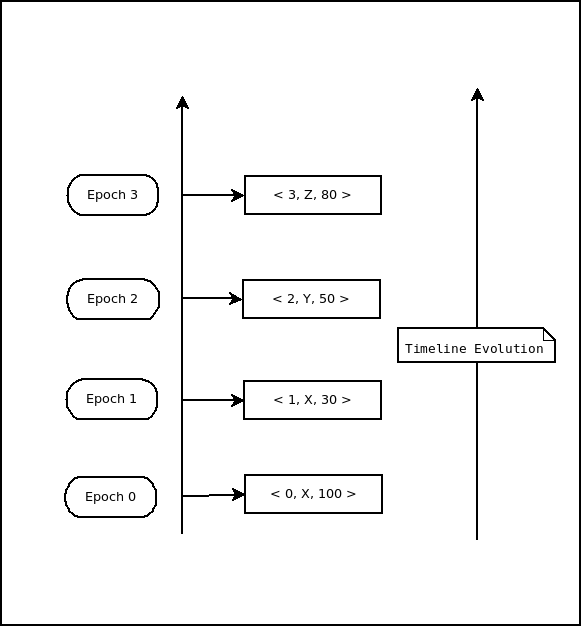
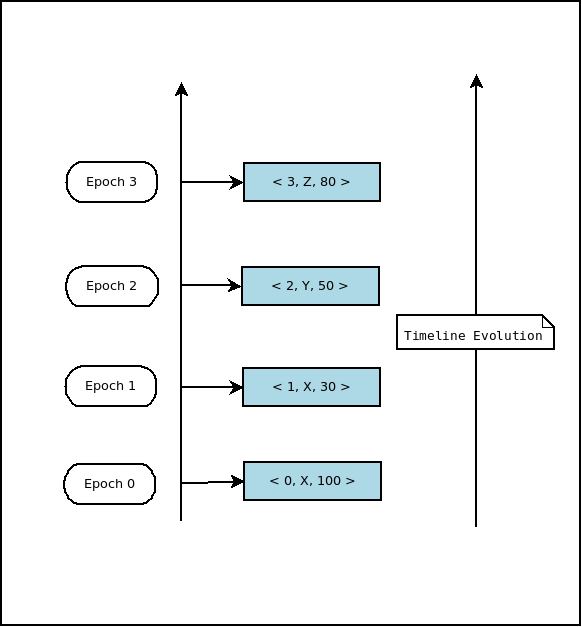
Updated the diagrams and initiated refactoring of the implementation section.

diff --git a/thesis-report/report.tex b/thesis-report/report.tex
@@ -412,21 +412,35 @@ Gradient \cite{sacha2006discovery}, which is a class of structured P2P overlays 
 
 
 \section{Architecture}
+\label{sec:architecture}
 
-The actual structure of a distributed search engine is usually complex. It involves modules for the request routing, leader election, overlay management, load balancing and searching the data. Figure \ref{fig:architecture} depicts a high level view of the system involving routing requests to specific shards based on the category. In this section, we will be discussing its key modules.
+The actual structure of a distributed search engine is usually complex. It involves modules for the request routing, leader election, overlay management, load balancing and searching the data. Figure \ref{fig:architecture} depicts the arrangement of these modules in different layers in the overall application. Application Layer is the main layer that directly interacts with the client. The application module directly interacts with the Routing module and the Data Store layer. The data store module is simply a wrapper over Apache Lucene used to store and index data.
+
+\par The next layer is the Overlay Layer and as the name suggests it is responsible for constructing and maintaining the overlay over which the system is built. In addition to the overlay module, it is also comprised of leader election module, which helps to identify and elect the leader of the system. All the layers in order to function need the help of the Basic Services Layer which include essential modules like Timer and Network for configuring timeouts during asynchronous operations and interacting with other components during different operations. It is not necessary that each module interacts with all the modules in the underlying layers but have an access to the modules in case the need arises. In the below sections, we will be briefly explaining the key modules chosen from the different layers in terms of their responsibility and functionality.
+
+
+
 
 \begin{figure}[h]
-	\includegraphics[width=10cm, height=12cm]{architecture}
+	\includegraphics[width=8cm, height=12cm]{architecture_new}
 	\centering
 	\caption{Architectural Overview}
 	\label{fig:architecture}
 \end{figure}
 
+
+%\begin{figure}[h]
+%	\includegraphics[width=10cm, height=12cm]{architecture}
+%	\centering
+%	\caption{Architectural Overview}
+%	\label{fig:architecture1}
+%\end{figure}
+
 \subsection{Leader Election Protocol}
 \label{ssec:leaderElection}
 
 In context of distributed systems various leader election protocols have been discussed \cite{bully, lamportPaxos}. Election of leader for a group of nodes in the system typically requires all the nodes to agree upon the leader. Once the leader gets elected, it coordinates between the nodes and helps the group to move forward. 
-\par As mentioned above, all the nodes usually need to know about the node that would be elected as leader but in case of large scale system it would usually result in huge traffic in the system. As part of this thesis, we introduced a weaker form of leader election protocol known as \textit{Leader Selection}. As part of this protocol, we select a group of \textit{top K} nodes in the system. The node which has the highest utility among the K members tries to assert itself as the leader. Figure \ref{fig:p-arrange} provides a general overview of the system in which the top nodes are located at the center and as we go towards the edges of the system, the utility decreases as depicted by the color gradient. The node, in order to become the leader asks for promises from the other nodes in the selected group. In case, the nodes from the which the promises are sought, see anybody above the requesting node in terms of utility, rejects the promise. The requesting node which is trying to assert itself as leader, only moves to the commit phase after receiving promises from all the nodes in the group. In case any one of them rejects, the node resets the convergence counter and waits for the system to stabilize again. 
+\par As mentioned above, all the nodes usually need to know about the chapnode that would be elected as leader but in case of large scale system it would usually result in huge traffic in the system. As part of this thesis, we introduced a weaker form of leader election protocol known as \textit{Leader Selection}. As part of this protocol, we select a group of \textit{top K} nodes in the system. The node which has the highest utility among the K members tries to assert itself as the leader. Figure \ref{fig:p-arrange} provides a general overview of the system in which the top nodes are located at the center and as we go towards the edges of the system, the utility decreases as depicted by the color gradient. The node, in order to become the leader asks for promises from the other nodes in the selected group. In case, the nodes from the which the promises are sought, see anybody above the requesting node in terms of utility, rejects the promise. The requesting node which is trying to assert itself as leader, only moves to the commit phase after receiving promises from all the nodes in the group. In case any one of them rejects, the node resets the convergence counter and waits for the system to stabilize again. 
 
 \par In order to better understand the mechanism, we need to look at the overlay over which the system is built. We use the Gradient topology, which is a class of P2P topology in which the nodes in the systems organize themselves in the network in such a way that the nodes with the highest utility  are concentrated at the center of the network and the nodes with low utility lies on the outer edges of the network. We use a \textit{preference function}, according to which nodes have a higher preference to form connections with the nodes which have utility higher but closer to itself. In this way the nodes arrange themselves in the system. The gradient sends sample of the preferred nodes to the application. The application on receiving the sample of preferred nodes, executes a convergence function in which it tries to calculate a percentage change in the number of neighbors. In case the change is greater than a predefined threshold \textit{D}, the node resets the convergence counter. On the other hand, if the change is below the threshold the node increments the counter. The node only tries to assert itself the leader, when the convergence counter has reached a certain value and the node based on its own utility sees no other node above it. It is only then, the node starts the promise round with the other K nodes. 
 
@@ -534,7 +548,7 @@ As part of the leader selection mechanism, we try to elect a leader as soon as p
 \UponS[init]{id}
   \State $isFolower := false;$
   \State $selfId := Id;$ $pendingPromise := Nil;$
-  \State $gradientSample := \emptyset;$
+  \State $gradientSample := \emptyset;$architecture
 \EndUponS
 
 \Upon[gradientSample]{sample}
@@ -612,7 +626,7 @@ While comparing the utility values of two different nodes, we simply compare the
 
 \subsection{Pull Protocol}
 
-The general overall functioning of the system involves electing a leader i.e a node with the highest utility as the leader of shard. The protocol employed for election of leader is \textit{Leader Selection} which is explained in detail in section \ref{ssec:leaderElection}. The leader is responsible for taking decisions regarding addition, searching of entries in the shard. In case of entry addition, in order to make the system highly available and prevent a single point of failure the leader performs a two phase commit to the nodes elected as part of leader group. Once the entry has been replicated to the leader group nodes, the leader returns back a successful response to the client. Now the peers can either push the entries to the neighboring nodes or nodes need to pull the entries added. The push protocol seems lucrative in terms that the peers as soon as they discover about a new entry, push the entry to other nodes. It prevents the other nodes constantly looking for the entries by asking the higher utility nodes. But there are major flaws in this scheme which are mentioned below:
+The general overall functioning of the system involves electing a leader i.e a node with the highest utility as the leader of shard. The protocol employed for election of leader is \textit{Leader Selection} which is explained in detail in section \ref{ssec:leaderElection}. The leader is responsible for taking decisions regarding addition, searching of entries in the shard. In case of entry addition, in order to make the system highly available and prevent a single point of failure the leader performs a two phase commit to the nodes elected as part of leader group. Once the entry has been replicated to the leader group nodes, the leader returns back a successful response to the client. Now the peers can either push the entries to the neighboring nodes or nodes need to pull the entries added. The push protocol seems lucrative in terms that the peers as soon as they discover about a new entry, push the entry to other nodes. It prevents the other nodes constantly looking for the entries by asking the higher utility nodes. But there are major flaws in this scheme which are mentioned below:a high level view of the system involving routing requests to specific shards based on the category. In this section, we will be discussing its key modules.
 
 \begin{enumerate}
 
@@ -632,7 +646,7 @@ As a result, we introduce pull protocol, in which the nodes constantly request t
 \subsection{Gossip Based Data Dissemination}
 \label{ssec:gossip}
 Once a node becomes a leader, it is implicitly trusted by other members in the shard. Initially the information of a node becoming a leader is only published at the leader group chosen by the leader. This information then gets pulled by other peers in the system. In this situation, it might be very much possible that a Byzantine Node might start publishing wrong information to the peers during the pull protocol. In order to avoid such situations, a peer during the pull protocol, requests updates from a predefined configurable peers usually three that are above itself in terms of utility.  The peers respond with the hashes of the information. Only the information for which the hashes match from all the nodes is then pulled from anyone of the responding peers. 
-\par This approach is being used for securely disseminating the leader information in the system. In addition to this, entry dissemination is also based on this protocol. We think that this approach is secure enough in the sense that it is highly unlikely for all the nodes that are requested by peer to provide updates that are faulty.
+\par This approach is being used for securely disseminating the leader information in the system. In addition to this, entry dissemination is also based on this protocol. We think that this approach is secure enough in the sense that it is highly unlikely for all the nodes that are requested by peer to provide updates that are faulty.a high level view of the system involving routing requests to specific shards based on the category. In this section, we will be discussing its key modules.
 
 
 \subsection{Load Balancing}
@@ -662,22 +676,32 @@ In this section, we will be discussing the concept of \textit{latency variabilit
 \chapter{Implementation}
 \label{chap:impl}
 
-In order to check for the viability of the theoretical approach we worked on developing a prototype on the principles stated in the design section. The prototype used Apache Lucene for storing and indexing data. In addition to this, the prototype was developed using the Kompics framework which is an asynchronous message passing system. The main application process on each node in the system is composed of following abstractions: \textit {group membership, routing, leader election} and \textit{data storage} abstraction . All the modules interact with the \textit{network} and \textit{timer} abstraction which are used to send messages over UDP and configure local timeouts respectively. In addition to this, we have a \textit{message chunking} abstraction which as name suggests check the messages going over the network and in case the message exceeds the maximum transmission limit, fragments the packet and at the receiving end joins the fragments to construct the final message. All of the abstractions are built from scratch in Java.
+In order to check for the viability of the theoretical approach we worked on developing a prototype on the principles stated in the design section. The prototype used Apache Lucene for storing and indexing data. In addition to this, the prototype was developed using the Kompics framework which is an asynchronous message passing system. The main application process on each node in the system is composed of following abstractions: \textit {group membership, routing, leader election} and \textit{data storage} abstraction. All the modules interact with the \textit{network} and \textit{timer} abstraction which are used to send messages over UDP and configure local timeouts respectively. In addition to this, we have a \textit{message chunking} abstraction which as name suggests check the messages going over the network and in case the message exceeds the maximum transmission limit, fragments the packet and at the receiving end joins the fragments to construct the final message. All of the abstractions are built from scratch in Java and have been previously explained in greater detail in Section \ref{sec:architecture}.
 
-\par The main application module interacts with the above mentioned abstractions. It is responsible for \textit{Indexing} and \textit{Searching} of the documents in the system. In case a node receives a request for adding an entry in the system, it forwards the request to the application module. The module firstly checks whether the node is the leader for the current shard. In case it is the leader, it invokes the entry addition routine on self. Otherwise, it sends the request to the routing module to route the request to the leader. As part of current implementation, the entry addition routine is a synchronous operation which involves performing a two phase commit by the leader over the leader group nodes. Only when the leader receives responses from the majority of leader group nodes, it commits the entry locally. In order to commit the entry the application module interacts with the data module to add the entry in the lucene. Once the entry gets replicated, the leader responds back to the node from which the request originated. 
+\par The application module as shown in Figure \ref{fig:architecture} is responsible for \textit{Indexing} and \textit{Searching} of the documents in the system. A high level view of the interaction of a single user layer with the system layer is shown in Figure \ref{fig:overall_function}. In case a node receives a request for adding an entry in the system, it forwards the request to the application module. The module firstly checks whether the node is the leader for the current shard. In case it is the leader, it invokes the entry addition routine on self. Otherwise, it sends the request to the routing module to route the request to the leader. As part of current implementation, the entry addition routine is a synchronous operation which involves performing a two phase commit by the leader over the leader group nodes. Only when the leader receives responses from the majority of leader group nodes, it commits the entry locally. In order to commit the entry the application module interacts with the data module to add the entry in the lucene. Once the entry gets replicated, the leader responds back to the node from which the request originated. 
 
 \par The \textit{Search Entry Operation} involves user entering the name of the document to be located. The middle ware constructs a well defined search pattern which is understood by the lucene in the data storage abstraction. The search request is initially handled by the application module of the client. The application module sends this request to the routing module to check for the references of the nodes located in different shards in the system which are populated by the gossiping protocol constantly supplying random subset of the global samples to the routing module. The module then routes the request to multiple nodes in each shard. As the number of shards can grow therefore, it can easily result in large fanout search causing a long tail. To prevent this, we route request to more than one node in each shard and only handle the response from the fastest node and reject the other responses. The search responses are added in a separate lucene instance. In case all the shards responded or the timeout for search operation, whichever gets triggered first, the responses are then sorted and returned back to the client. 
 
+
+\begin{figure}[h]
+	\includegraphics[scale=0.35]{OverallFunctioning}
+	\centering
+	\caption{Architectural Overview}
+	\label{fig:overall_function}
+\end{figure}
+
+
+
 \subsection{Overlay Network}
 
-The system strives to be a dynamic system in which the nodes can join and leave depending upon their requirement. Gradient topology built over peer sampling service is being used to construct the overlay of the system. The nodes perform shuffling as part of construction of a random graph and gradient topology over the random graph using preference function. Each node holds only a subset of total nodes which are known as preferred nodes. The mechanism to identify the preferred nodes depends upon the topology. The application holds two different set of preferred nodes, identified under the gradient and the peer sampling service. Each service keeps on updating the set by periodically identifying a node based on different policies and initiate a shuffle with that node. In this way, each peer is able to discover new peers joining the system.
+The system strives to be a dynamic system in which the nodes can join and leave depending upon their requirement. Gradient topology built over peer sampling service is being used to construct the overlay of the system. The nodes perform shuffling as part of construction of a random graph and gradient topology over the random graph using preference function. Each node holds only a subset of total nodes which are known as preferred nodes. The mechanism to identify the preferred nodes depends upon the topology. The application holds two different set of preferred nodes, identified under the gradient and the peer sampling service. Each service keeps on updating the set by periodically identifying a node based on different policies and initiate a shuffle with that node. As part of shuffle nodes exchange a subset of the view held by them and merge in their local view the sample received from the other nodes. In this way, each peer is able to discover new peers joining the system. In addition to it, each sample also has an age attribute which gets incremented on every shuffle and helps to identify how long that particular sample has been in the system.
 
-\par  On the other hand,  as a node leaves the system voluntarily or by crashing, the sample of node in the system becomes stale. As an effort to keep neighborhood samples fresh, in case the size of the sample list grows beyond a predefined threshold, we removed the oldest sample i.e peer reference with the highest age. We quickly realized that if this approach needs to be successful, we would need to synchronize the rate at which the gradient and the peer sampling service performs shuffling with the neighborhood nodes.
+\par  As a node leaves the system voluntarily or by crashing, the sample of node in the system becomes stale. As an effort to keep neighborhood samples fresh, in case the size of the sample list grows beyond a predefined threshold, we removed the oldest sample i.e peer reference with the highest age. We quickly realized that if this approach needs to be successful, we would need to synchronize the rate at which the gradient and the peer sampling service performs shuffling with the neighborhood nodes.
 
-\par In case the difference between the shuffling rates of both the services is large, the outcomes of the stabilization of the gradient were unexpected. The main reason behind it is that the peer sampling service feeds the sample to the gradient service. So in case the rate of shuffling in the croupier is fast, the increment in the ages would be frequent because as part of shuffling the peers increment the age of the references and then exchange sample. Therefore the croupier will feed the samples with high ages and the gradient shuffling is at a lower rate resulting in the slow rate of increase in ages. The nodes disseminate there updated utility in the system through the shuffles. Therefore, the probability of peer reference samples having ages higher than the corresponding samples present in the gradient sample is higher even though the reference from the sampling service has updated utility. It is because of the large gap in the shuffling rates of the both the services. Thus, the updated peer reference sample gets disseminated in the system slowly.
+\par In case the difference between the shuffling rates of both the services is large, the outcomes of the stabilization of the gradient were unexpected. The main reason behind it is that the peer sampling service feeds the sample to the gradient service. So in case the rate of shuffling in the sampling service is fast, the increment in the ages would be frequent because as part of shuffling the peers increment the age of the references and then exchange sample. Therefore the sampling service will feed the samples with high ages and the gradient shuffling is at a lower rate resulting in the slow rate of increase in ages. The nodes disseminate their updated utility in the system through the shuffles with age zero. Therefore, the node sample with a lower age would mean that it recently has been shuffled by the host node in the system and therefore indicates recent utility of the node. In case of difference in shuffling rates of the services with the sampling service shuffling faster than the gradient service, the probability of peer reference samples having ages higher than the corresponding samples present in the gradient sample is higher even though the peer reference from the sampling service has updated utility. Thus, the updated peer reference sample gets disseminated in the system slowly as the sample recent utility has a higher age than the same sample with old utility.
 
 \subsection{Operations}
-As part of current implementation, the \textit{Sweep} prototype supports the following operations:
+As part of current implementation, the prototype supports the following operations:
 
 \begin{itemize}
 
@@ -735,8 +759,9 @@ The information about the new leader units that are incorporated in the timeline
 
 
 
-\begin{figure}[h]
-	\includegraphics[scale=0.5]{timeline}
+\begin{figure}[H]
+	\includegraphics[scale=0.5]{timeline_new}
+	\centering
 	\caption{Timeline Evolution}
 	\label{fig:timeline}
 \end{figure}
@@ -751,19 +776,21 @@ When a peer receives sharding update, the entry pull abstraction might currently
 \subsubsection{Timeline Merge}
 In section \ref{ssec:entryIdStructure} we introduced the concept of the dense identifier space created by the current identifier structure. In this section we will explain the use of these dense spaces in event of network partition merge. 
 
-\par In the event of Network Partitioning a group of nodes become unable to discover another group. The group with the original leader before the partitioning keeps on functioning the same way whereas the next best node in the other group starts the voting protocol. Peer if elected as leader, closes the previous leader unit with the number of entries seen by the leader added by the previous leader. In addition to this, it also commits its own leader unit. In this way the two groups evolve on there own accord. 
-In the event of network partition merge, the nodes start discovering nodes from other partition. In order to merge the two partitions effectively the leader units that were added since the partition in both the branches needs to be identified and added to the leader group. which would be pulled by other nodes in the system. The dense spaces created by the entry identifier structure always allows entries added in two different branches to be identified uniquely. For example, assuming the two branches have leader units with epoch \textit{e}, the entry identifier would overlap but the use of node identifier would help to uniquely identify them as a particular node can be leader in a single branch only. 
+\par In the event of Network Partitioning a group of nodes become unable to discover another group. The group with the original leader before the partitioning keeps on functioning the same way whereas the next best node in the other group starts the voting protocol. Peer starting the voting protocol, if elected as leader, closes the previous leader unit with the number of entries seen by the leader added by the previous leader. In addition to this, it also commits its own leader unit. In this way the two groups evolve on there own accord.  In the event of network partition merge, the nodes start discovering nodes from other partition. In order to merge the two partitions effectively the leader units that were added since the partition in both the branches needs to be identified and added to the leader group. which would be pulled by other nodes in the system. The dense spaces created by the entry identifier structure always allows entries added in two different branches to be identified uniquely. For example, assuming the two branches have leader units with epoch \textit{e}, the entry identifier would overlap but the use of node identifier would help to uniquely identify them as a particular node can be leader in a single branch only. 
 
 \par Once we identify the leader units that were added after the partition, they could easily be merged back in the timeline because of these dense spaces. Figure \ref{fig:timelineMerge} depicts the above scenario of partition merge.
 
 
 
-\begin{figure}[h]
-	\includegraphics[scale=0.25]{npMerge}
+\begin{figure}[H]
+	\includegraphics[width=16cm, height= 13cm]{timeline-merge}
+	
 	\caption{Timeline merge}
 	\label{fig:timelineMerge}
 \end{figure}
 
+
+As we can clearly see from the Figure \ref{fig:timelineMerge}, a simple merge creates an issue of the split point leader unit. When the networks split, the nodes in one of the partitions assumed the current leader to be dead and started their own election protocols while the leader being alive in other partition continued with its operation. This can be seen from the differences in the leader units having the \textit{same epoch} and the \textit{leader identifier}  but different entries added in the system by the leader. When the partitions merge then the leader of the merged partitions need to identify the presence of this case and need to indicate the other nodes in the system to reopen the leader unit and fetch the remaining entries. The nodes which went into other partition than the leader at that time will recognize the difference in the entries and start pulling the remaining entries to become up to date.
 
 
 \chapter{Evaluations}
